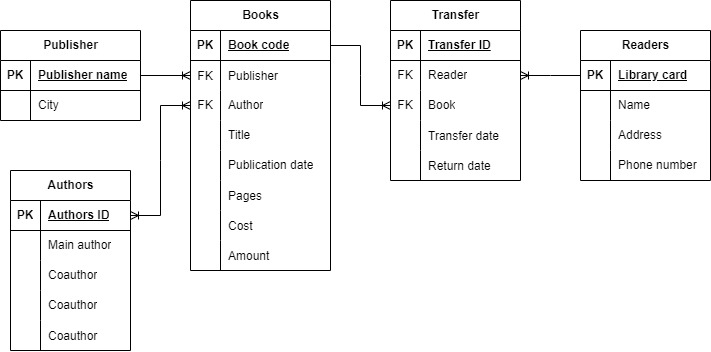
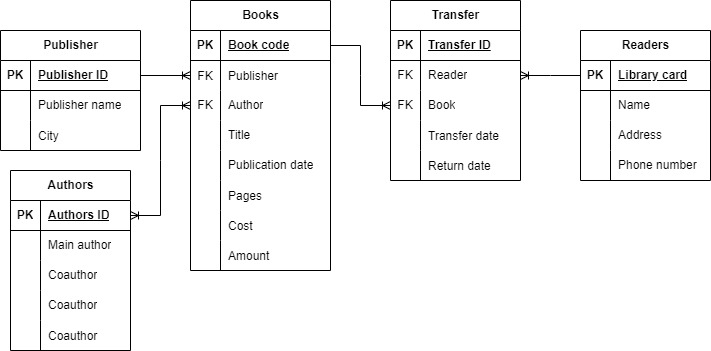
Logic structure of database, 6, after check

diff --git a/Logic DB/README.md b/Logic DB/README.md
@@ -1,6 +1,6 @@
 # Задание: Логическая структура БД для создания "Библиотеки".
 ## Сущности и их ключи
-- Издательство (Название)
+- Издательство (ID издательства)
 - Книги (Шифр книги)
 - Выдача книги (ID выдачи, вторичные ключи: читатель, книга)
 - Читатели (Номер читательского билета)
